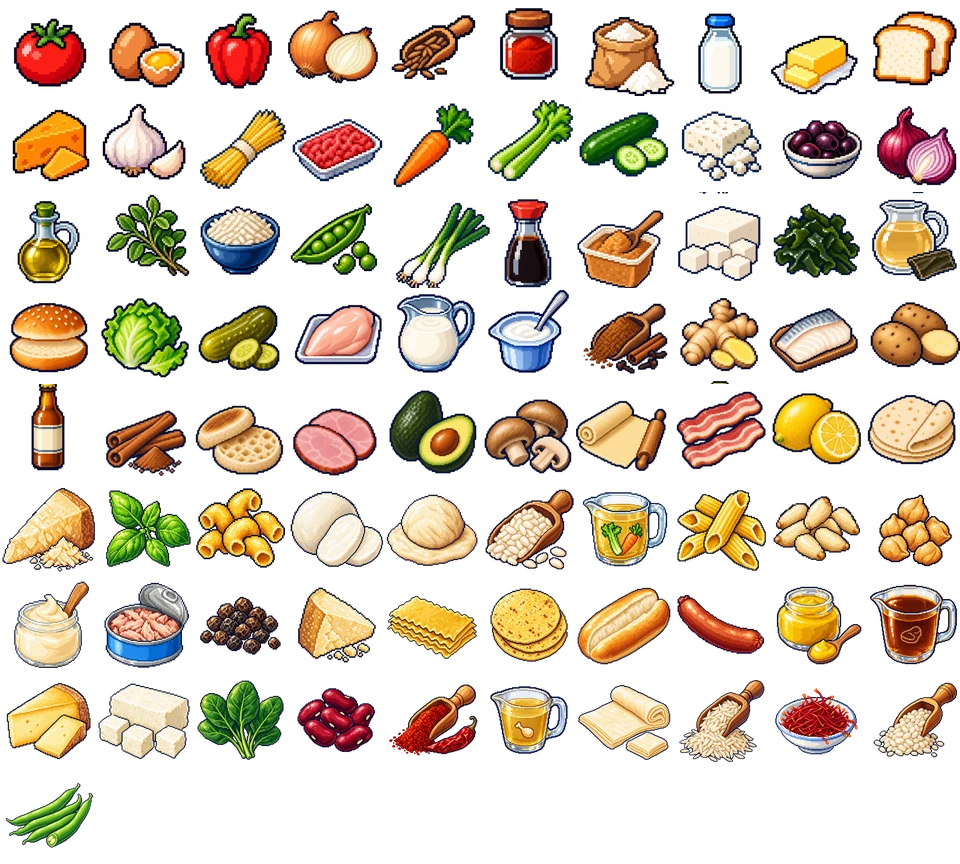
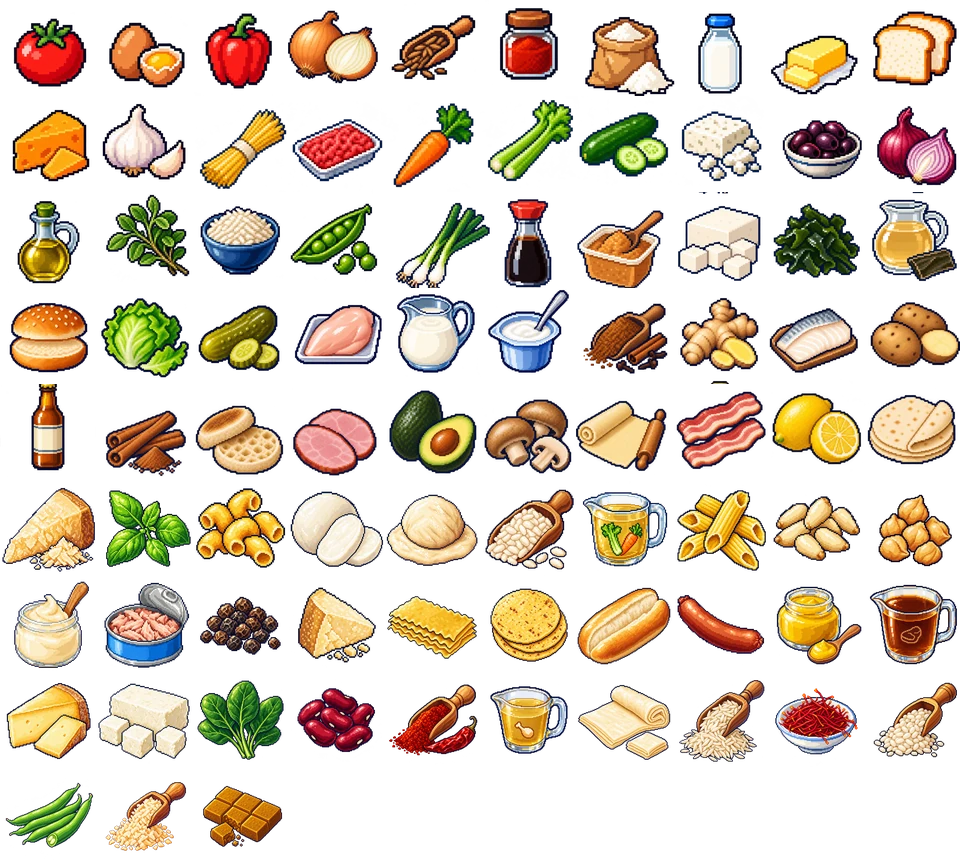
Complete chicken katsu curry artwork set

Changed region(s): [[0.0938, 0.9062, 0.3125, 1.0]]

diff --git a/WORK_LOG.md b/WORK_LOG.md
@@ -6,7 +6,7 @@ Every AI must read this file before working and update it throughout the session
 
 - Current milestone: game/ is playable with Daily dish (US Eastern midnight, shared clue order, saved on device) and Endless (shuffled deck, excludes today's daily, not saved). Browser-verified in emulation; real-device keyboards untested.
 - Product: daily meal guessing plus endless mode. Approved desktop B split layout and mobile native-keyboard-aware layout.
-- Available: 45-meal roster, 37 meal illustrations, 81 of 103 canonical ingredient icons, 11 draft custom animation groups, mockups, prompts, visual prototypes and normalized asset map.
+- Available: 45-meal roster, 38 meal illustrations, 83 of 103 canonical ingredient icons, 11 draft custom animation groups, mockups, prompts, visual prototypes and normalized asset map.
 - Implemented: responsive game, daily/endless, daily persistence, alias suggestions, streaks, sound and lazy-loaded art. Test deploy live at https://meal-lion-playtest.netlify.app (updated 2026-10-25, public, no password); final product decisions remain open. reference/meal-lion-demo/pilot.html remains a visual demo that exposes answers.
 - Repository/branch/checkpoint: codex/missing-food-art; latest existing checkpoint bc50e63; paella set verified and pushed; deployed source 4fde015 on 2026-10-25, pushed to origin/main and origin/codex/missing-food-art. Remote: origin = https://github.com/EricTalanoa/meal-lion (private); main, feat/three-meal-game and codex/missing-food-art pushed 2026-10-19.
 - Asset automation: cloud task 6ad7bfe9c2408191b650b820afd8a386 was verified PAUSED on 2026-10-21; local heartbeat is PAUSED to prevent duplicates. 41 icons / 18 meals queued. Outputs require later local import. See docs/ASSET_AUTOMATION.md. Recurring queue/resume behavior remains untested.
@@ -415,3 +415,12 @@ Every AI must read this file before working and update it throughout the session
 - All three sources: 1254x1254 RGBA, alpha 0-255, solid bounds inside canvas. Direct PNG/WebP comparison verified identical visible pixels. Paella 240px thumbnail visually inspected: full pan/handles and recognizable rice, chicken and beans. Coverage 37/45 meals and 81/103 icons; eight meals and 22 icons remain. Final halo approval and browser/device art QA pending; draft artwork, not deployed. Next suggested set: Panko, Japanese curry roux, Chicken katsu curry.
 
 - Paella checkpoint bc50e63 merged by fast-forward into main and pushed to both origin branches; remote hashes verified. No deployment; live remains 36 meals / 79 icons with mobile fix. Next: Chicken katsu curry set.
+
+### 2026-10-27 America/Los_Angeles — Codex — Chicken katsu curry set
+- Branch codex/missing-food-art / 5d0b3a7; clean start. User requested continued asset work. Generate Panko, Japanese curry roux, Chicken katsu curry with built-in imagegen; exact prompts saved. Verify, merge and push set; no deployment.
+
+- Panko and Japanese curry roux generated and saved; full objects visually inspected. Exact prompts retained; finished meal pending.
+
+- Finished katsu plate generated and visually inspected, full plate visible. Three sources mapped; coverage 38/45 meals and 83/103 icons. Exact decorative piece counts vary from prompts, accepted as draft. Optimizing before verification.
+
+- Sources validated: three 1254x1254 RGBA files with alpha 0-255 and solid bounds inside canvas. Optimizer completed with visible-pixel lossless checks, 83-icon sheet (342,768 bytes), 38 thumbnails (758,118 bytes). An early test attempt ran during thumbnail generation and correctly failed missing meal-41 coverage; after completion all 79 tests pass. Build 129 files / 58.2 MB. Visually inspected 240px katsu plate: full plate, readable sliced cutlet/rice/curry. Final halo approval and browser/device art QA untested. Preparing commit/push; seven meals and 20 icons remain.

diff --git a/docs/ASSETS.md b/docs/ASSETS.md
@@ -2,7 +2,7 @@
 
 All source artwork and generation prompts are in reference/. Do not overwrite originals during cleanup. See assets/asset-map.json for a consistent map; older batch manifests use different structures. Cell indexes are zero-based row-major, with paths relative to this package root. Ingredient entries marked preferred are the suggested default; the old purple Onion icon is retained as a variant, while the yellow Onion is preferred and Red onion remains its own label.
 
-There are 37/45 meal illustrations, 81/103 canonical ingredient icons and 11 custom sequence groups. Chef neutral/blink/thinking/celebrate poses are separate. An animation group means a draft strip of distinct key poses, not a finished smooth animation. Pancake and grilled-cheese sequences share a 3-by-2 atlas. The other interactions are onion, tomato, egg, milk, cheese, dough, mushroom, rice and garlic. Existing demos add procedural steam, particles and ingredient movement.
+There are 38/45 meal illustrations, 83/103 canonical ingredient icons and 11 custom sequence groups. Chef neutral/blink/thinking/celebrate poses are separate. An animation group means a draft strip of distinct key poses, not a finished smooth animation. Pancake and grilled-cheese sequences share a 3-by-2 atlas. The other interactions are onion, tomato, egg, milk, cheese, dough, mushroom, rice and garlic. Existing demos add procedural steam, particles and ingredient movement.
 
 Recommended interaction routing: Onion -> onion; Tomato -> tomato; Egg -> egg; Milk -> milk; Cheddar -> cheese; Pizza dough -> dough; Mushroom -> mushroom; Rice or Arborio rice -> rice; Garlic -> garlic. These are integration suggestions; most newer sequences are not wired into the pilot. Use neutral/general reactions for missing interactions until dedicated ones exist. A cheddar-colored animation is not automatically suitable for every cheese.
 

diff --git a/assets/COVERAGE.md b/assets/COVERAGE.md
@@ -1,6 +1,6 @@
 # Artwork coverage
 
-37/45 meal illustrations; 81/103 canonical ingredient icons; 11 custom animation groups. All draft.
+38/45 meal illustrations; 83/103 canonical ingredient icons; 11 custom animation groups. All draft.
 
 | ID | Meal | Meal art | Missing ingredient icons |
 |---|---|---|---|
@@ -44,7 +44,7 @@
 | 38 | Thai green chicken curry | Missing | Coconut milk, Green curry paste, Eggplant, Bamboo shoots, Thai basil, Fish sauce |
 | 39 | Chana masala | Available | None |
 | 40 | Palak paneer | Available | None |
-| 41 | Chicken katsu curry | Missing | Panko, Japanese curry roux |
+| 41 | Chicken katsu curry | Available | None |
 | 42 | Pad Thai | Missing | Rice noodles, Bean sprouts, Peanuts, Tamarind, Fish sauce, Palm sugar |
 | 43 | Greek salad | Available | None |
 | 44 | Chicken Caesar salad | Missing | Romaine lettuce, Anchovy |
